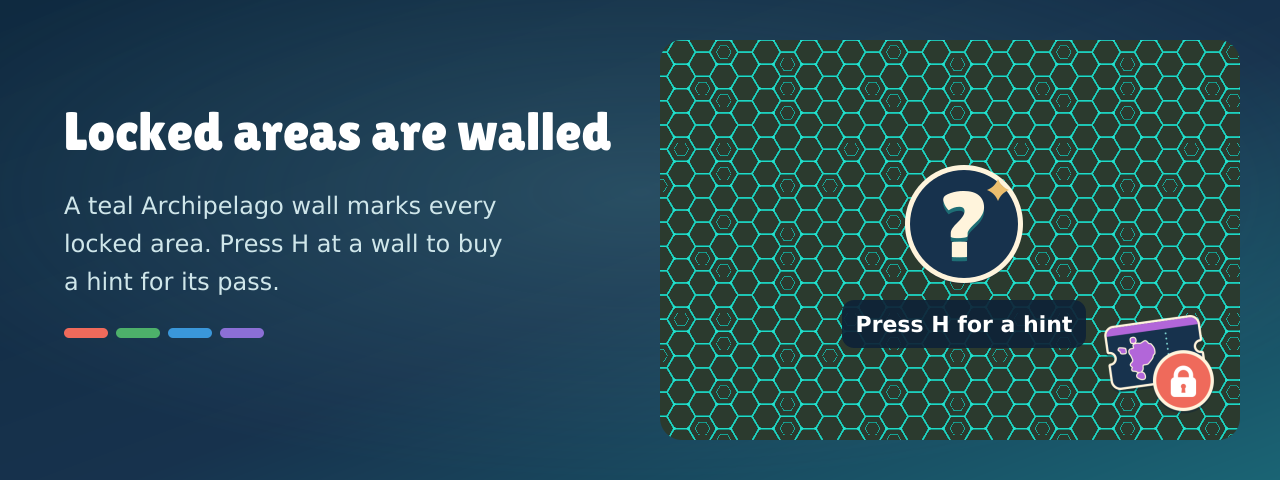
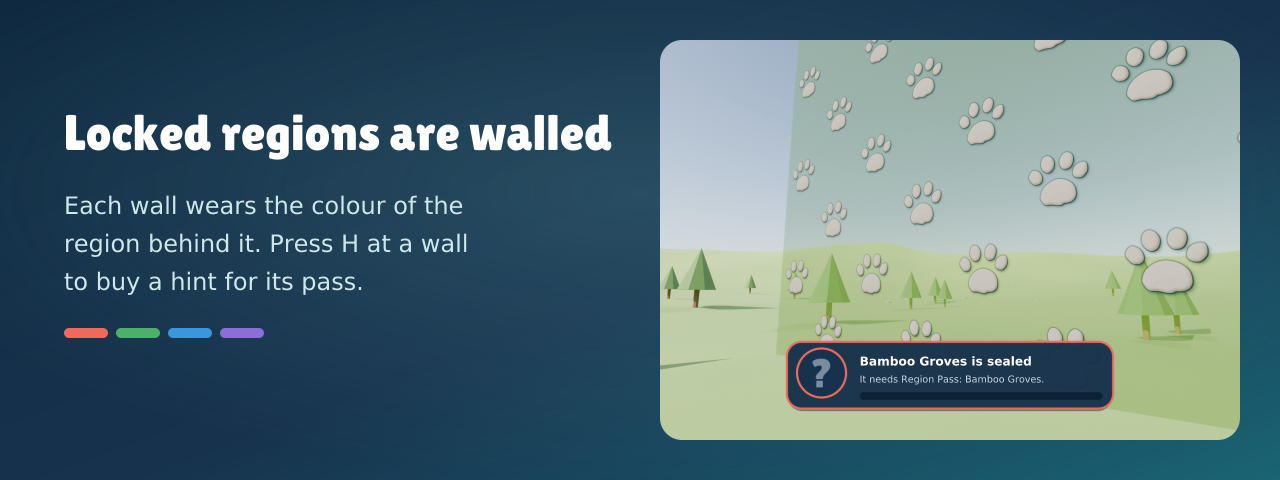
README walls picture drawn from the game: cream paws over the region's colour
The Art & Assets lane redrew feature-walls.png after in-game screenshots of a region wall (the render alone had the
wall almost vanishing by day). The user picked draft A: the Bamboo Groves wall, with the mod's hint pop-up and no
point counts. Same size, so only the alt text changes.

Claude-Session: https://claude.ai/code/session_01Bc3bYXpTwEvXxqPSQ4feef

diff --git a/README.md b/README.md
@@ -21,7 +21,7 @@ Archipelago server. Targets Palworld 1.0.5 and Archipelago 0.6.8. To install and
 
 <img src="art/readme/feature-shop.png" alt="The Technology tree becomes an Archipelago shop" width="800">
 <img src="art/readme/feature-passes.png" alt="Regions open with Region Passes" width="800">
-<img src="art/readme/feature-walls.png" alt="Locked regions are walled off until their pass arrives" width="800">
+<img src="art/readme/feature-walls.png" alt="A locked region's wall: cream paws over the region's colour, with the hint pop-up for its pass" width="800">
 
 `apworld/palworld/` is the APWorld: options, items, locations and logic, with `game_data.py` generated from the game's
 tables by `tools/gen_apworld_data.py`. `mod/PalworldArchipelago/` is the UE4SS Lua mod (its `Scripts/ap_data.lua` is
